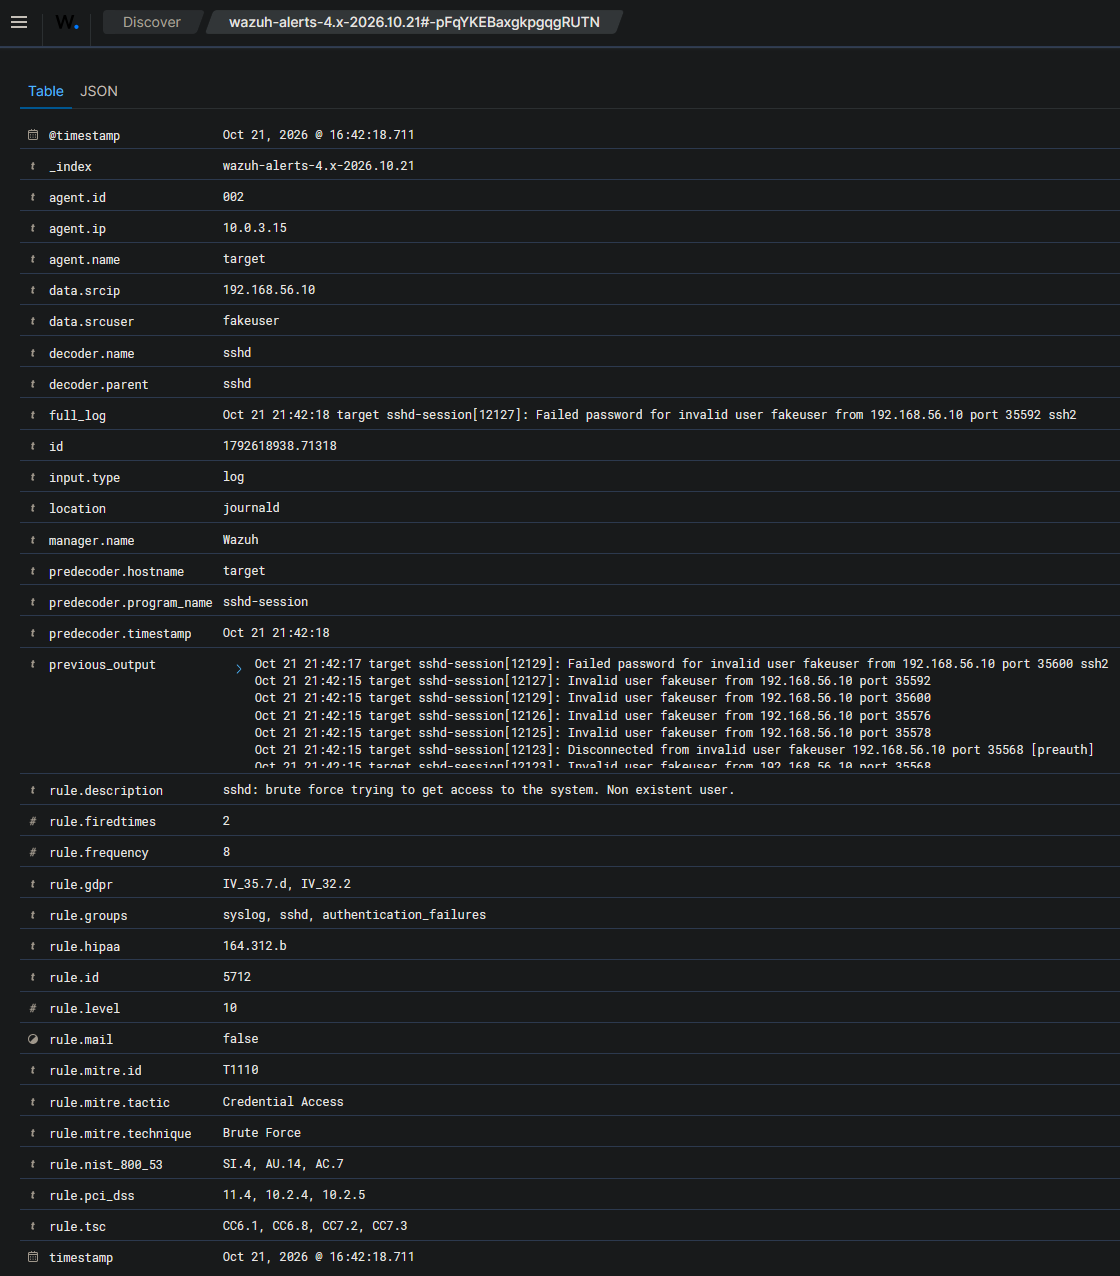
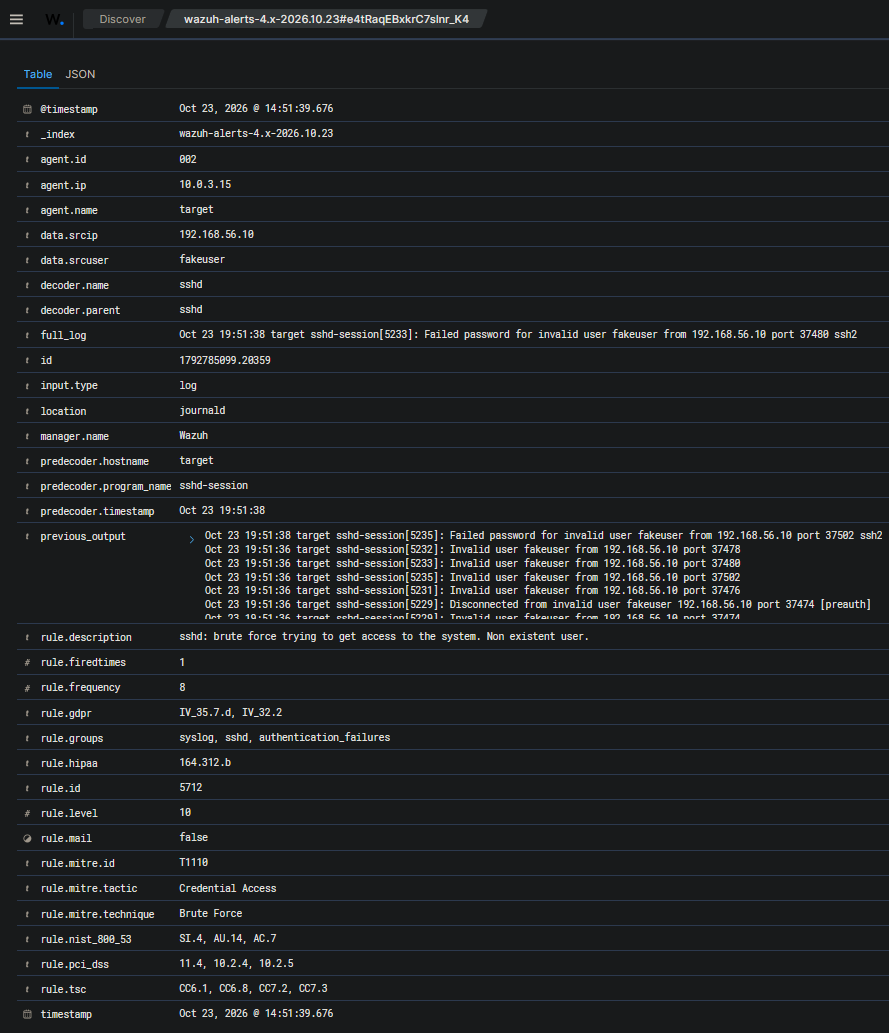
Scenario 03: recapture full SSH evidence as one run (event 1792785099.20359)

diff --git a/docs/scenarios/03-ssh-brute-force.md b/docs/scenarios/03-ssh-brute-force.md
@@ -26,8 +26,9 @@ hydra -l fakeuser -P ~/passwords.txt ssh://192.168.56.20 -t 4
 `-t 4` limits parallel connections so the burst looks like realistic tooling
 rather than a flood. Hydra reports `0 valid password found` — the attack
 completes without a successful login, which fixes the expected verdict up front:
-*attempted access, no compromise*. The brute force was launched several times
-while tuning the detection; the captured output is one representative run.
+*attempted access, no compromise*. The run captured here executed
+`19:51:35–19:51:41 UTC`, and every artifact in this scenario comes from this one
+run.
 
 > _Evidence: `evidence/scenario-03-ssh/attack-output.txt`_
 
@@ -47,30 +48,33 @@ agent, and matched on the manager. Two rules do the work:
   from per-attempt noise to a single pattern alert is the whole point of
   brute-force detection.
 
-Because the attack was run several times, 5712 shows up once per run. The rest of
-this scenario follows **one** correlation event end to end —
-`1792618938.71318` — so the raw alert, the SOAR run, and the case all refer to
-the same event.
+The single hydra run produced exactly one 5712 correlation event —
+`1792785099.20359` — and the raw alert, the SOAR run, and the case below all
+carry that same ID.
 
-![Wazuh Discover filtered on rule.id:5712 — three brute-force runs, each collapsed into one correlation alert](../../evidence/scenario-03-ssh/wazuh-5712-alerts.png)
-*Three attack runs, three 5712 hits — each hit is a full burst of failed logins
-collapsed into one alert, so the per-attempt 5710 events never reach the analyst
-as individual noise. The run followed below is the top hit (`16:42`).*
+![Wazuh Discover filtered on rule.id:5712, time scoped to the run — one correlation hit for the brute-force burst](../../evidence/scenario-03-ssh/wazuh-5712-alerts.png)
+*One 5712 hit for the run (`event 1792785099.20359`, `14:51:39` in the analyst's
+browser timezone). The burst of failed logins is collapsed into this single
+alert, so the per-attempt 5710 events never reach the analyst as individual
+noise.*
 
 Expanding that alert shows the fields triage actually uses — `data.srcip`,
 `data.srcuser`, `rule.frequency`, and the MITRE mapping:
 
-![Expanded 5712 alert, event 1792618938.71318 — srcip 192.168.56.10, srcuser fakeuser, frequency 8, MITRE T1110 Credential Access / Brute Force](../../evidence/scenario-03-ssh/wazuh-5712-detail.png)
-*Event `1792618938.71318` expanded: `frequency: 8`, `data.srcip: 192.168.56.10`,
+![Expanded 5712 alert, event 1792785099.20359 — srcip 192.168.56.10, srcuser fakeuser, frequency 8, MITRE T1110 Credential Access / Brute Force](../../evidence/scenario-03-ssh/wazuh-5712-detail.png)
+*Event `1792785099.20359` expanded: `frequency: 8`, `data.srcip: 192.168.56.10`,
 `data.srcuser: fakeuser`, mapped to T1110 (Credential Access → Brute Force).*
 
-> _Evidence: `evidence/scenario-03-ssh/alert-5712.json` (event `…71318`, level 10
-> correlation), `evidence/scenario-03-ssh/alert-5710.json` (per-attempt sample)._
+> _Evidence: `evidence/scenario-03-ssh/alert-5712.json` (event `…20359`, level 10
+> correlation), `evidence/scenario-03-ssh/alert-5710.json` (per-attempt sample
+> from the same burst)._
 >
-> _Match artifacts by **event ID**, not wall-clock. The authoritative time is the
-> UTC timestamp in the JSON (`21:42:18.711Z`); the Kali attacker renders UTC‑4 and
-> the Wazuh/Shuffle/TheHive stack renders UTC‑5, so the same event shows different
-> clock values across screenshots._
+> _Match artifacts by **event ID** and the **UTC timestamp in the JSON**
+> (`19:51:39.676Z`), not by wall-clock. The Kali attacker renders UTC‑4 (hydra
+> shows `15:51`) and the analyst's Wazuh/Shuffle/TheHive browser renders UTC‑5
+> (shows `14:51`); both are the same `19:51` UTC moment. The hydra run window
+> (`19:51:35–41 UTC`) contains this 5712 event, confirming the attacker log and
+> the detection are the same run._
 
 ---
 
@@ -98,20 +102,20 @@ The 5712 alert is forwarded to Shuffle by webhook. The key behavior here is
 **aggregation**: Wazuh's correlation has already collapsed the burst, so Shuffle
 receives **one** event for the whole run rather than one per failed login.
 
-![Shuffle workflow run for event 1792618938.71318 — a single webhook carrying rule_id 5712, severity 3, for the whole brute-force burst](../../evidence/scenario-03-ssh/shuffle-aggregated.png)
-*The Shuffle run for event `1792618938.71318`: the `$exec` payload carries
-`rule_id: 5712`, the sshd title, and `id: 1792618938.71318` — one actionable
+![Shuffle workflow run for event 1792785099.20359 — a single webhook carrying rule_id 5712, severity 3, for the whole brute-force burst](../../evidence/scenario-03-ssh/shuffle-aggregated.png)
+*The Shuffle run for event `1792785099.20359`: the `$exec` payload carries
+`rule_id: 5712`, the sshd title, and `id: 1792785099.20359` — one actionable
 event, not eight.*
 
 Shuffle then opens a case in TheHive. This is the same path phishing (Scenario
 02) takes — **SSH brute force reaches case creation too**; phishing is simply the
 scenario where VirusTotal enrichment is showcased.
 
-![TheHive case for event 1792618938.71318 — SEVERITY:MEDIUM, tags brute-force/ssh/wazuh, description with source, target user, attempt count, MITRE and rule](../../evidence/scenario-03-ssh/thehive-alert.png)
+![TheHive case for event 1792785099.20359 — SEVERITY:MEDIUM, tags brute-force/ssh/wazuh, description with source, target user, attempt count, MITRE and rule](../../evidence/scenario-03-ssh/thehive-alert.png)
 *TheHive case: `SEVERITY:MEDIUM`, tagged brute-force / ssh / wazuh, description
 `SSH brute force | Source: 192.168.56.10 | Target user: fakeuser | Correlated
 failed attempts: 8 | MITRE T1110 | Rule 5712`. The `Reference` is
-`1792618938.71318` — the same event as the alert and Shuffle run above.*
+`1792785099.20359` — the same event as the alert and Shuffle run above.*
 
 A brute force in progress is a strong auto-block candidate: high confidence,
 time-sensitive (every minute is more guesses), reversible, and backed by a
@@ -129,8 +133,8 @@ justifies an automated `firewall-drop` rather than waiting for an analyst.
   *pattern* is the alert, and only the pattern should reach the analyst.
 - Correlation also does the SOAR a favor: because 5712 collapses the burst, the
   case queue sees one case per campaign, not one per guess.
-- Timestamps are only trustworthy end-to-end when matched by **event ID** —
-  hosts in a lab rarely share a timezone, so wall-clock alone will mislead.
+- Timestamps are only trustworthy end-to-end when matched by **event ID** and
+  UTC — hosts in a lab rarely share a timezone, so wall-clock alone will mislead.
 - Contrast with Scenario 04 (Windows RDP): the same technique (T1110) surfaces
   through a completely different log source (journald vs. the Windows Security
   channel), which is why host coverage must span both platforms.
